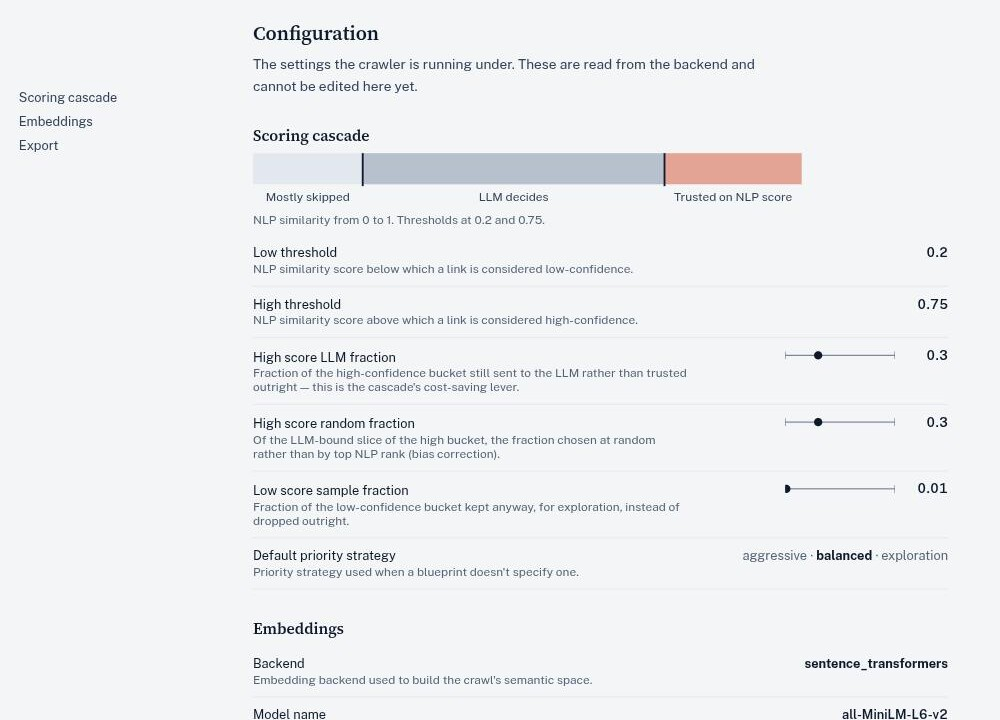
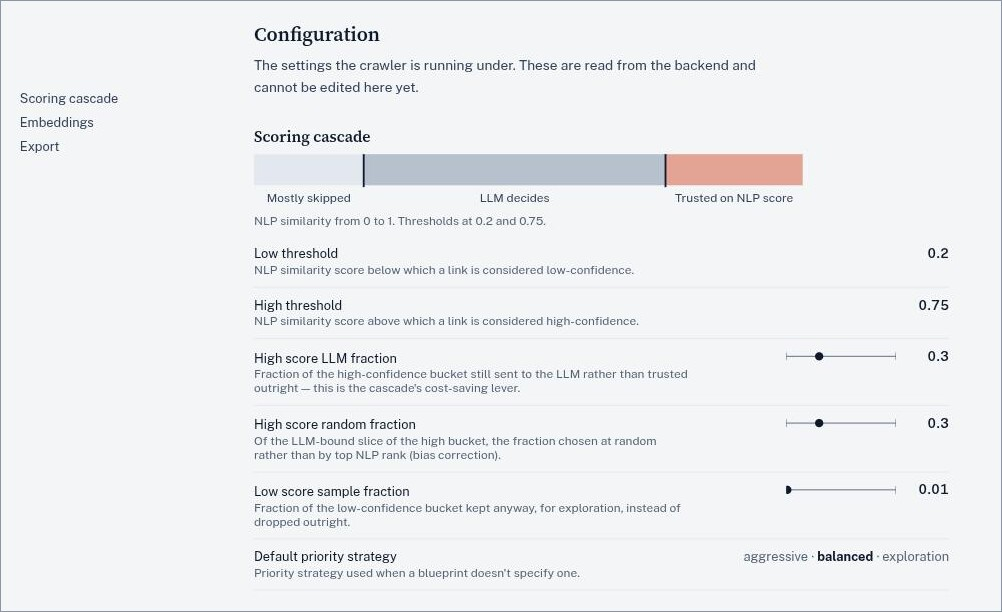
docs(readme): fix critique findings, reorder tour, legible crops

diff --git a/README.md b/README.md
@@ -7,60 +7,33 @@ A topic-focused web crawler that scores every link before it fetches it, draws t
 
 [![CI](https://github.com/omarbounawarapy/crawlviz/actions/workflows/ci.yml/badge.svg)](https://github.com/omarbounawarapy/crawlviz/actions/workflows/ci.yml) [![License: Apache 2.0](https://img.shields.io/badge/License-Apache%202.0-blue.svg)](LICENSE) [![Python 3.12+](https://img.shields.io/badge/python-3.12+-blue.svg)](pyproject.toml)
 
-[Quick start](#quick-start) · [Tour](#a-tour-of-the-interface) · [Architecture](docs/01-architecture.md) · [Docs](docs/00-index.md) · [Project report](report/rapport-english.pdf)
+[Tour](#a-tour-of-the-interface) · [Run it yourself](#run-it-yourself) · [Architecture](docs/01-architecture.md) · [All docs](docs/00-index.md) · [Project report](report/rapport-english.pdf)
 
 <br>
 
 <img src="docs/assets/graph-real-crawl.jpg" alt="CrawlViz graph of a real crawl seeded from Diabetes on Wikipedia: 512 pages found, relevant links ringed in vermilion with their LLM score" width="900">
 
-<sub>A real crawl of en.wikipedia.org, seeded from "Diabetes" and stopped at 512 pages. Darker discs got further along, vermilion rings mark links judged relevant, and dashed boxes were skipped as off-topic.</sub>
+<sub>A real crawl of en.wikipedia.org, seeded from "Diabetes" and stopped at 512 pages. Darker discs got further along, vermilion rings mark links judged relevant (the number is the LLM's 0 to 100 score), and dashed boxes were skipped as off-topic.</sub>
 
 </div>
 
+In the reference run on `wikimd.org`, CrawlViz explored **539 nodes out of 50,828 identified links (about 1%)** and still produced a graph that clustered cleanly into complications, treatments and epidemiology. [Details below](#reference-case-study).
+
 ## What it does
 
-CrawlViz is a topic-focused web crawler. Instead of exploring a site exhaustively, it decides, link by link, in real time, which parts of the web are worth visiting to satisfy a stated topic, and which aren't.
+A structural crawl (breadth-first from a seed page) has no notion of *meaning*. Starting from "Black Hole" on Wikipedia, a pure BFS drifts into science-fiction and video-game pages within a few hops, because those pages are densely linked to the seed even though they're off-topic. CrawlViz replaces "explore what's linked" with "explore what's relevant": a cheap local embedding model and a selectively invoked LLM score every candidate link before it is ever fetched.
 
-The core problem it solves: a structural crawl (breadth-first from a seed page) has no notion of *meaning*. Starting from "Black Hole" on Wikipedia, a pure BFS drifts into science-fiction and video-game pages within a few hops, because those pages are densely linked to the seed even though they're off-topic. CrawlViz replaces "explore what's linked" with "explore what's relevant," using a cascade of a cheap local embedding model and a selectively invoked LLM to score every candidate link before it's ever fetched.
-
-That scoring decision is one part of a larger system. An asyncio event bus coordinates roughly a dozen independent pipelines (fetching, extraction, deduplication, scoring, priority, transformation, export, retry, logging). A React frontend renders the crawl graph live over WebSocket and can scrub backward through its own event history. A two-tier tracing system lets a crawl's behavior be reconstructed after the fact, not just watched live.
-
-This documentation is organized so you can go as deep as you need and stop there. A recruiter can read this page, an engineer can read the architecture and deep dives, and a reviewer who wants to check a specific claim against the code can follow the file:line references throughout.
-
-## Quick start
-
-```bash
-git clone https://github.com/omarbounawarapy/CrawlViz.git
-cd CrawlViz
-make install                      # uv sync + npm install
-cp keys.example.json keys.json    # add a key for the LLM provider you use
-make dev                          # API on :8000, UI on :5173
-```
-
-Open <http://localhost:5173>. The landing page has a **Load a sample replay** button that plays a synthetic crawl in the browser, so you can explore the interface before running a real crawl. Full setup, providers and tests: [`docs/08-developer-guide.md`](docs/08-developer-guide.md).
-
-<p align="center">
-  <img src="docs/assets/spider-loader.gif" alt="The CrawlViz loading screen: a spider spins a web, then the landing page appears with Open the plate and Load a sample replay buttons" width="860">
-</p>
+Around that decision sits an asyncio event bus coordinating roughly a dozen independent pipelines, a React frontend that renders the crawl live and can scrub through its own history, and a two-tier tracing system that lets a crawl be reconstructed after the fact. The docs go as deep as you want to read and carry file:line references, so a claim can be checked against the code.
 
 ## A tour of the interface
 
-Every page in the graph is a node. The disc says how far it got, the ring says how promising it was, and the number is the LLM's 0 to 100 score. Links the crawler refused to follow can be shown as dashed boxes, so you can check what it threw away, not just what it kept.
-
 ### Click any page, get the reason
 
-Selecting a node opens the reasoning for that one link. The **Scoring** tab breaks the local NLP score into its eleven signals (target similarity, contextual consistency, novelty injection, cluster distance and so on) and shows how it combined with the LLM's rating into a final priority. The **Activity** tab lists every pipeline stage that touched the page, with timings.
+Selecting a node opens the reasoning for that one link. The **Scoring** tab breaks the local NLP score into eleven signals (target similarity, contextual consistency, novelty injection, cluster distance and so on) and shows how it combined with the LLM's rating into a final priority. The **Activity** tab lists every pipeline stage that touched the page, with timings.
 
-<table>
-  <tr>
-    <td width="50%" align="center"><img src="docs/assets/panel-scoring.jpg" alt="Scoring tab for /wiki/Sulfonylurea: LLM rated 82/100 after NLP similarity 0.40, with an eleven-signal NLP breakdown"></td>
-    <td width="50%" align="center"><img src="docs/assets/panel-activity.jpg" alt="Activity tab for the same page: request, extraction, filtering, transformation, scoring and priority stages with timings"></td>
-  </tr>
-  <tr>
-    <td align="center"><sub><b>Scoring.</b> NLP similarity 0.40, LLM rating 82/100, final priority 0.554.</sub></td>
-    <td align="center"><sub><b>Activity.</b> A 280 KB page fetched in 1.4 s, 378 links extracted, 27 sent to the LLM in 10.6 s.</sub></td>
-  </tr>
-</table>
+<p align="center">
+  <img src="docs/assets/panel-scoring.jpg" alt="Scoring tab for /wiki/Sulfonylurea: LLM rated this link 82/100 after NLP similarity 0.40, with an eleven-signal NLP breakdown, NLP score 0.396 and final priority 0.554" width="362">
+</p>
 
 ### Scrub backward through the crawl
 
@@ -77,23 +50,57 @@ The graph is rebuilt from a stream of events, so the timeline under it is a real
 The scoring cascade is the cost lever. Links below the low threshold are mostly skipped, most links above the high threshold are trusted on the local score, and the band in between goes to the LLM. The Config tab shows the live values and what each one does.
 
 <p align="center">
-  <img src="docs/assets/config-crop.jpg" alt="Config tab showing the scoring cascade bar with thresholds 0.2 and 0.75, LLM fractions and the embedding model all-MiniLM-L6-v2" width="760">
+  <img src="docs/assets/config-crop.jpg" alt="Config tab showing the scoring cascade bar with thresholds 0.2 and 0.75, the LLM and random fractions, and the default priority strategy" width="760">
 </p>
 
 ### Describe a crawl as data, read what it kept
 
-A blueprint is a JSON document that says where a crawl starts, what counts as relevant and when it stops. The form editor walks through it in six steps, and the Data tab shows the fields the crawler actually extracted.
+A blueprint is a JSON document that says where a crawl starts, what counts as relevant and when it stops. It is validated against a Pydantic schema and edited in the UI as a form or as raw JSON. This is an abridged `templates/wikiMD.json`:
 
-<table>
-  <tr>
-    <td width="50%"><img src="docs/assets/blueprint-crop.jpg" alt="Blueprint editor on step 1, About, with blueprint ID and target topic"></td>
-    <td width="50%"><img src="docs/assets/data-crop.jpg" alt="Data tab listing extracted Wikipedia pages with their relevance score and extracted fields"></td>
-  </tr>
-  <tr>
-    <td align="center"><sub><b>Blueprints.</b> Form or raw JSON, validated against a Pydantic schema.</sub></td>
-    <td align="center"><sub><b>Data.</b> Extracted pages with score, headings, lists and infobox counts.</sub></td>
-  </tr>
-</table>
+```jsonc
+{
+  "blueprint_id": "wikimd_diabetes",
+  "target_topic": "Type 2 Diabetes",
+  "seeds": [
+    { "url": "https://www.wikimd.org/wiki/Diabetes", "domain": "https://www.wikimd.org" }
+  ],
+  "scoring": {
+    "strategy": "TOPICAL",
+    "params": { "scoring_type": "groq", "model_information": "openai/gpt-oss-120b" }
+  },
+  "extraction": {
+    "mode": "document",
+    "fields": {
+      "title":    { "selector": "//h1[@id='firstHeading']", "type": "scalar" },
+      "headings": { "selector": "//div[...]//*[self::h2 or self::h3]", "type": "list" }
+      // ... paragraphs, lists, infobox_items, categories
+    }
+  },
+  "stop_conditions": { "max_nodes": 500, "max_depth": 10 }
+}
+```
+
+The **Data** tab then shows what the crawler actually stored for each page: its relevance score, a text preview and the extracted fields.
+
+<p align="center">
+  <img src="docs/assets/data-crop.jpg" alt="Data tab listing extracted Wikipedia pages: Body mass index scored 40/100 with 66 paragraphs, 28 headings and 124 lists, Endocrine disease scored 0/100" width="860">
+</p>
+
+## Run it yourself
+
+<p align="center">
+  <img src="docs/assets/spider-loader.gif" alt="The CrawlViz loading screen: a spider spins a web, then the landing page appears with Open the plate and Load a sample replay buttons" width="640">
+</p>
+
+```bash
+git clone https://github.com/omarbounawarapy/CrawlViz.git
+cd CrawlViz
+make install                      # uv sync + npm install
+cp keys.example.json keys.json    # add a key for the LLM provider you use
+make dev                          # API on :8000, UI on :5173
+```
+
+Open <http://localhost:5173>. The landing page has a **Load a sample replay** button that plays a synthetic crawl in the browser, so you can explore the interface before running a real crawl. Full setup, providers and tests: [`docs/08-developer-guide.md`](docs/08-developer-guide.md).
 
 ## Start here, by what you need
 
@@ -116,16 +123,16 @@ A blueprint is a JSON document that says where a crawl starts, what counts as re
 
 The deep dives explain the mechanism behind each of these, not just the label:
 
-- **A two-stage scoring cascade**, not a single LLM call per link. Every candidate link is first scored by a local sentence-embedding similarity pass (milliseconds, no network call); only a budgeted, strategy-dependent sample of the mid-confidence links is then sent to an LLM. This keeps LLM cost and latency from becoming the crawl's bottleneck. See [`docs/04-deep-dive-semantic-scoring.md`](docs/04-deep-dive-semantic-scoring.md).
+- **A two-stage scoring cascade**, not a single LLM call per link. Every candidate link is first scored by a local sentence-embedding similarity pass (milliseconds, no network call); only a budgeted, strategy-dependent sample of the mid-confidence links is then sent to an LLM, which keeps LLM cost and latency from becoming the bottleneck. [See it in the tour](#tune-the-cascade) or read [`docs/04-deep-dive-semantic-scoring.md`](docs/04-deep-dive-semantic-scoring.md).
 - **An in-process pub/sub event bus** (57 distinct typed events across the backend) decouples fetching, extraction, filtering, scoring, priority calculation, transformation, and export into independently scheduled pipelines that never call each other directly. See [`docs/03-deep-dive-event-pipeline.md`](docs/03-deep-dive-event-pipeline.md).
-- **A `Future`-based readiness gate on every node** (`Node.ready`) that solves a genuine race condition. It lets the scoring pipeline pick up a node the instant it's created, while still guaranteeing it won't try to score a node whose content hasn't finished being fetched and processed. See [`docs/03-deep-dive-event-pipeline.md`](docs/03-deep-dive-event-pipeline.md#the-node-ready-synchronization-gate).
-- **A checkpoint-assisted event-sourced frontend.** The React state is built entirely by replaying a WebSocket event log through a pure reducer. The UI can scrub to any past point in the crawl by seeking to the nearest periodic checkpoint and replaying only the remainder, rather than replaying the whole log on every scrub. See [`docs/05-deep-dive-resilience-observability.md`](docs/05-deep-dive-resilience-observability.md).
+- **A `Future`-based readiness gate on every node** (`Node.ready`) that solves a genuine race condition. It lets the scoring pipeline pick up a node the instant it's created, while still guaranteeing it won't try to score a node whose content hasn't finished being fetched and processed. See [`docs/03-deep-dive-event-pipeline.md`](docs/03-deep-dive-event-pipeline.md#the-nodeready-synchronization-gate).
+- **A checkpoint-assisted event-sourced frontend.** The React state is built entirely by replaying a WebSocket event log through a pure reducer. The UI can scrub to any past point by seeking to the nearest periodic checkpoint and replaying only the remainder. [See it in the tour](#scrub-backward-through-the-crawl) or read [`docs/05-deep-dive-resilience-observability.md`](docs/05-deep-dive-resilience-observability.md).
 - **A declarative blueprint model.** A crawl's seeds, domains, scoring strategy, extraction fields, and stop conditions are all data (a JSON document validated against a Pydantic schema), not code. The crawl engine itself is written once and reused across arbitrarily many topic configurations.
 
 ## What CrawlViz is not (yet)
 
 - It is **not distributed**. It's a single-process asyncio application with in-memory state; "concurrency" here means cooperative multitasking within one process, not multiple machines or processes.
-- The backend test suite (226 tests, all passing as of this review) covers pipelines, the blueprint schema/translator, and event wiring. It does not include end-to-end or live-LLM integration tests.
+- The backend test suite (about 250 tests) covers pipelines, the blueprint schema/translator, and event wiring. It does not include end-to-end or live-LLM integration tests.
 - Persistence is local SQLite, not a horizontally scalable store, appropriate for the single-machine research/portfolio scope this project targets, not for production multi-tenant crawling.
 
 
